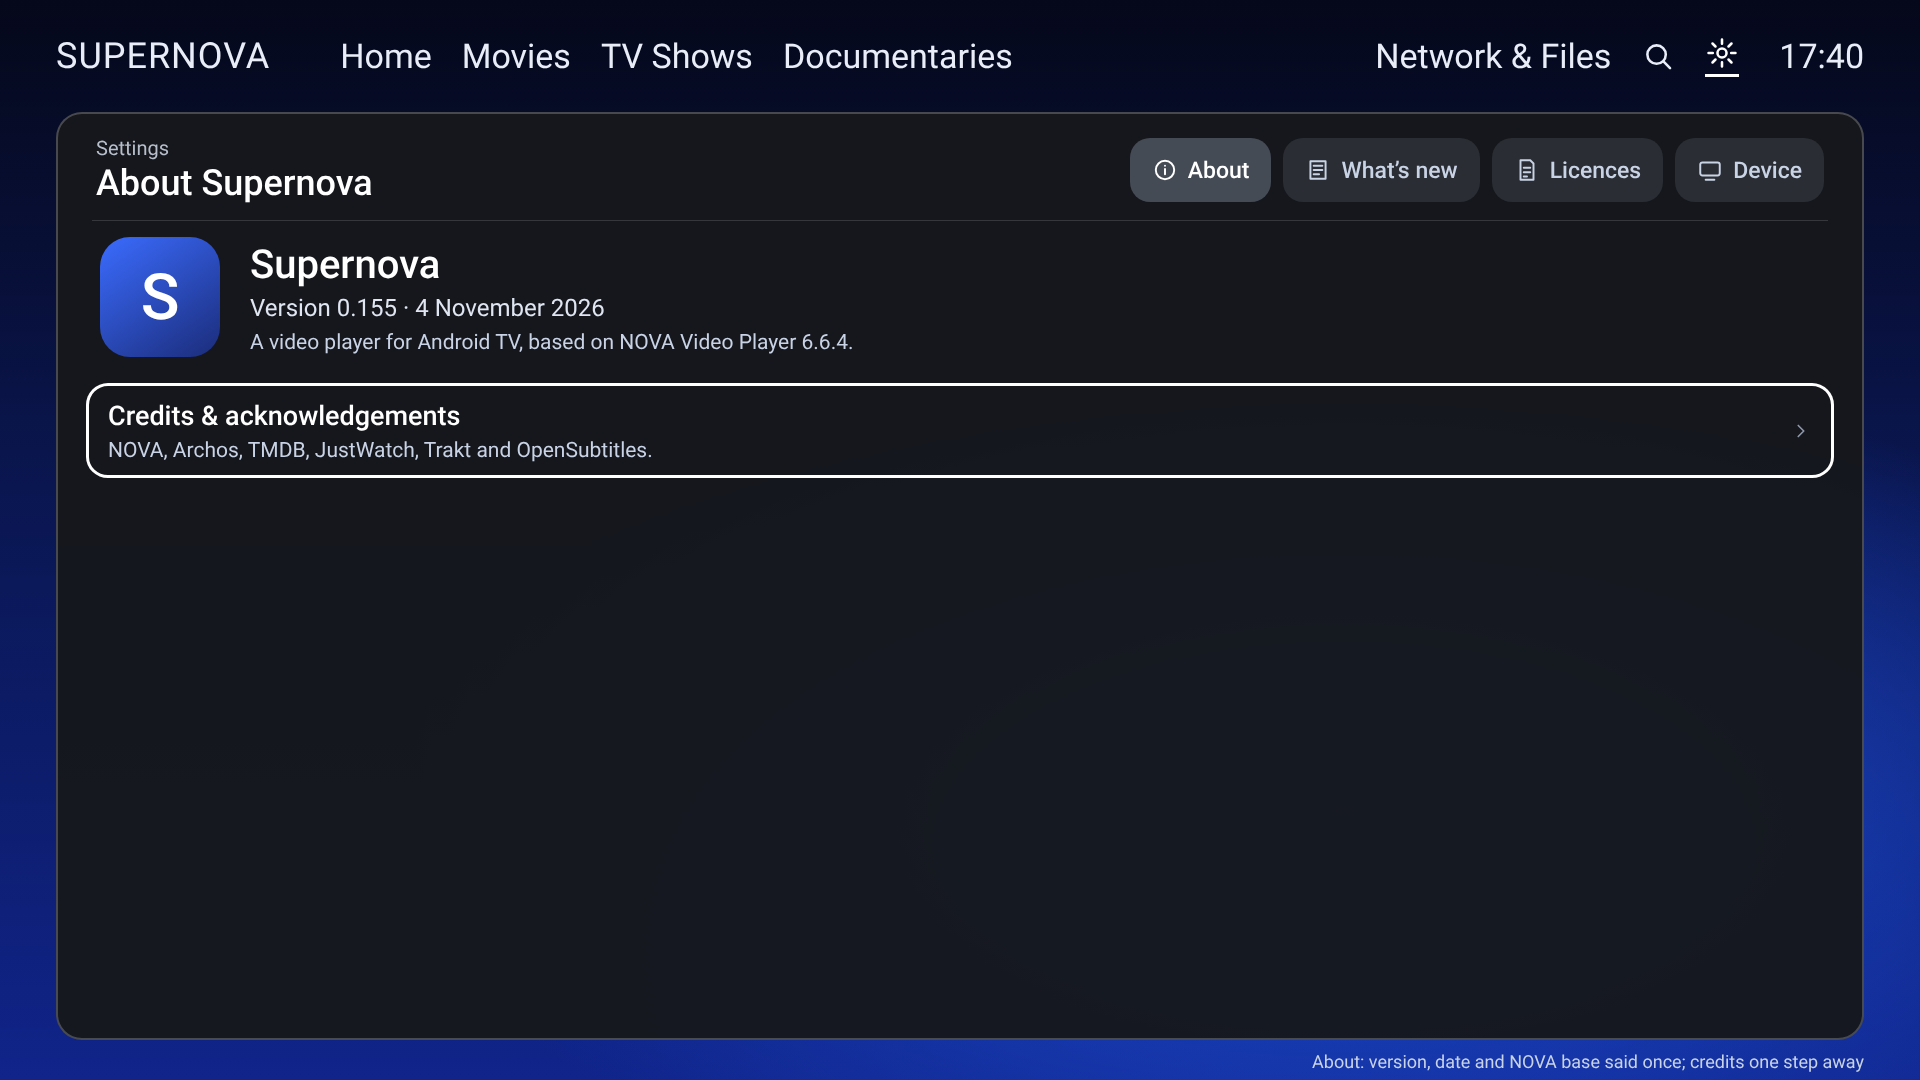
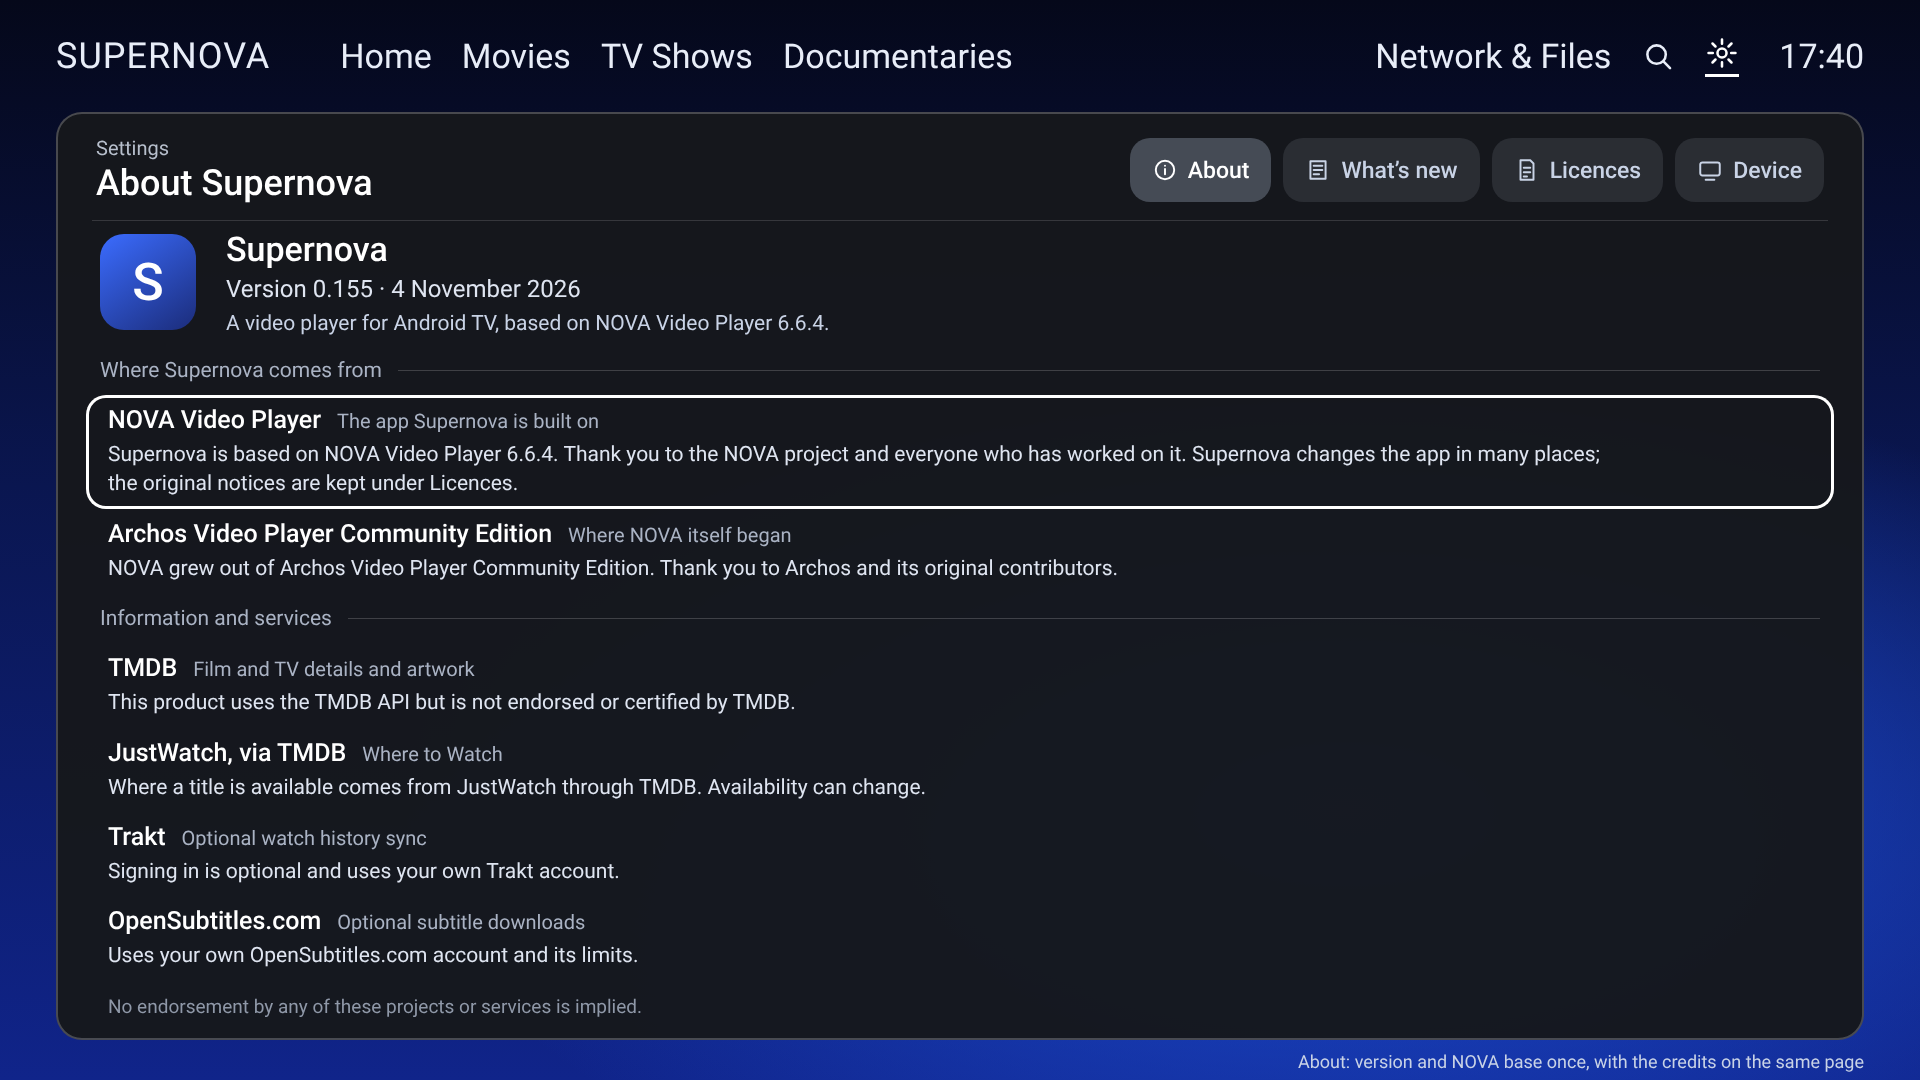
Settings proposal: credits on the About page; QR code for licence websites
Claude-Session: https://claude.ai/code/session_01FtDZqamY6pdaUKwc7fqgiA

diff --git a/docs/design/proposals/settings/about.js b/docs/design/proposals/settings/about.js
@@ -30,9 +30,6 @@ Object.assign(P, { info: '<circle cx="12" cy="12" r="8.5"/><path d="M12 11v5M12 
 const tabs = (open) => `<div class="tabs">${[['info', 'About'], ['news', 'What’s new'], ['lic', 'Licences'], ['dev', 'Device']].map(([k, t], i) => `<div class="tb${i === open ? ' open' : ''}">${ic(k, 26)}<span>${t}</span></div>`).join('')}</div>`;
 const shell = (open, body, foot) => `<div class="one"><div class="ohead"><div><div class="crumb">Settings</div><div class="stitle">About Supernova</div></div>${tabs(open)}</div><div class="rule"></div><div class="inner">${body}<div class="more">${foot}</div></div></div>`;
 const info = (t, v) => `<div class="kv"><span>${t}</span><b>${v}</b></div>`;
-const about = shell(0,
-  `<div class="hero"><div class="logo">S</div><div><div class="an">Supernova</div><div class="av">Version 0.155 · 4 November 2026</div><div class="ab">A video player for Android TV, based on NOVA Video Player 6.6.4.</div></div></div>` +
-  row('Credits & acknowledgements', 'NOVA, Archos, TMDB, JustWatch, Trakt and OpenSubtitles.', val(''), true), '');
 const esc = t => t.replace(/&/g, '&amp;');
 const histTop = [['November 2026', [['0.155', '4 Nov'], ['0.154', '3 Nov'], ['0.153', '3 Nov'], ['0.152', '2 Nov'], ['0.151', '2 Nov'], ['0.150', '2 Nov'], ['0.149', '1 Nov']]],
   ['October 2026', [['0.148', '31 Oct'], ['0.147', '29 Oct'], ['0.146', '29 Oct']]]];
@@ -55,9 +52,15 @@ const credits = [['Where Supernova comes from', [['NOVA Video Player', 'The app 
   ['JustWatch, via TMDB', 'Where to Watch', 'Where a title is available comes from JustWatch through TMDB. Availability can change.'],
   ['Trakt', 'Optional watch history sync', 'Signing in is optional and uses your own Trakt account.'],
   ['OpenSubtitles.com', 'Optional subtitle downloads', 'Uses your own OpenSubtitles.com account and its limits.']]]];
+const about = shell(0,
+  `<div class="hero sm"><div class="logo">S</div><div><div class="an">Supernova</div><div class="av">Version 0.155 · 4 November 2026</div><div class="ab">A video player for Android TV, based on NOVA Video Player 6.6.4.</div></div></div>` +
+  credits.map(([g, items]) => `<div class="csec2"><span>${g}</span><i></i></div>` +
+    items.map(([n, r, t], i) => `<div class="cr sm${g.startsWith('Where') && i === 0 ? ' f' : ''}"><div class="crn"><b>${n}</b><span>${r}</span></div><div class="crt">${t}</div></div>`).join('')).join('') +
+  `<div class="disc">No endorsement by any of these projects or services is implied.</div>`, '');
 const creditsPage = shell(0, `<div class="crumb2">About › Credits &amp; acknowledgements</div>` + credits.map(([g, items]) => `<div class="csec2"><span>${g}</span><i></i></div>` +
   items.map(([n, r, t], i) => `<div class="cr${g.startsWith('Where') && i === 0 ? ' f' : ''}"><div class="crn"><b>${n}</b><span>${r}</span></div><div class="crt">${t}</div></div>`).join('')).join('') +
   `<div class="disc">No endorsement by any of these projects or services is implied.</div>`, '');
+const QR = 'M0 0.5h7m1 0h1m1 0h1m1 0h1m1 0h1m3 0h1m3 0h7m-29 1h1m5 0h1m1 0h1m3 0h1m1 0h2m6 0h1m5 0h1m-29 1h1m1 0h3m1 0h1m5 0h4m4 0h1m1 0h1m1 0h3m1 0h1m-29 1h1m1 0h3m1 0h1m2 0h3m1 0h2m1 0h2m2 0h1m1 0h1m1 0h3m1 0h1m-29 1h1m1 0h3m1 0h1m2 0h1m1 0h1m5 0h1m1 0h2m1 0h1m1 0h3m1 0h1m-29 1h1m5 0h1m3 0h3m1 0h3m5 0h1m5 0h1m-29 1h7m1 0h1m1 0h1m1 0h1m1 0h1m1 0h1m1 0h1m1 0h1m1 0h7m-18 1h4m1 0h1m2 0h2m-20 1h1m4 0h3m1 0h2m2 0h1m2 0h1m2 0h2m5 0h2m-29 1h1m1 0h3m5 0h1m1 0h4m2 0h2m3 0h5m-24 1h5m1 0h2m2 0h1m3 0h1m2 0h3m1 0h2m-25 1h4m2 0h1m1 0h1m7 0h1m3 0h3m-25 1h1m1 0h1m1 0h1m1 0h3m5 0h3m3 0h3m2 0h1m1 0h1m-27 1h3m1 0h1m1 0h1m1 0h1m2 0h1m2 0h1m1 0h4m1 0h1m1 0h2m2 0h1m-29 1h1m3 0h1m1 0h1m1 0h2m1 0h1m1 0h1m1 0h1m5 0h1m1 0h1m-24 1h4m1 0h1m1 0h2m1 0h1m1 0h1m1 0h3m1 0h2m1 0h2m1 0h3m-27 1h1m1 0h5m1 0h1m7 0h1m1 0h1m6 0h3m-28 1h1m2 0h1m1 0h1m1 0h2m1 0h2m1 0h2m3 0h3m1 0h5m1 0h1m-29 1h3m1 0h4m3 0h5m1 0h1m1 0h2m3 0h1m3 0h1m-29 1h1m2 0h1m1 0h1m2 0h1m4 0h2m4 0h7m1 0h1m-28 1h1m4 0h3m2 0h2m2 0h2m1 0h1m1 0h6m1 0h1m1 0h1m-21 1h2m3 0h1m1 0h1m2 0h1m1 0h1m3 0h4m-28 1h7m1 0h2m1 0h5m2 0h3m1 0h1m1 0h1m-25 1h1m5 0h1m5 0h1m1 0h3m1 0h3m3 0h2m1 0h2m-29 1h1m1 0h3m1 0h1m4 0h3m2 0h9m-25 1h1m1 0h3m1 0h1m3 0h1m1 0h2m2 0h1m1 0h3m2 0h1m1 0h3m-28 1h1m1 0h3m1 0h1m2 0h1m1 0h1m1 0h2m2 0h1m1 0h6m2 0h1m-28 1h1m5 0h1m1 0h4m2 0h2m5 0h1m2 0h3m1 0h1m-29 1h7m2 0h4m4 0h2m2 0h1m2 0h1m1 0h1';
 const notice = `FFmpeg n9.0.2
 
 # License
@@ -71,8 +74,7 @@ Some optional parts of FFmpeg are licensed under the GNU General Public License
 version 2 or later (GPL v2+). See the file COPYING.GPLv2 for details. None of
 these parts are used by default, you have to explicitly pass --enable-gpl to
 configure to activate them. In this case, FFmpeg's license changes to GPL v2+.`;
-const licPage = shell(2, `<div class="crumb2">Licences › Playback engine</div><div class="lh"><div><div class="lhn">FFmpeg</div><div class="lhs">Reads and decodes almost every video and audio format</div></div></div>` +
-  `<div class="lfacts"><span><i>Version</i>9.0.2, with security fixes</span><span><i>Licence</i>LGPL 2.1 or later</span><span><i>Website</i>ffmpeg.org/legal.html</span></div>` +
+const licPage = shell(2, `<div class="crumb2">Licences › Playback engine</div><div class="lh"><div class="qr"><svg width="150" height="150" viewBox="0 0 29 29" shape-rendering="crispEdges"><path stroke="#000" d="${QR}"/></svg><span>Scan for the website</span></div><div><div class="lhn">FFmpeg</div><div class="lhs">Reads and decodes almost every video and audio format</div><div class="lfacts"><span><i>Version</i>9.0.2, with security fixes</span><span><i>Licence</i>LGPL 2.1 or later</span></div></div></div>` +
   `<div class="csec2"><span>Licence text</span><i></i></div><div class="ltext f"><pre>${notice}</pre><div class="hfade"></div></div>`, '');
 const libs = [['App libraries', [['AndroidX', 'Apache 2.0'], ['OkHttp', 'Apache 2.0'], ['Retrofit', 'Apache 2.0'], ['jcifs-ng (Windows shares)', 'LGPL 2.1'], ['sshj (SFTP)', 'Apache 2.0'], ['sardine-android (WebDAV)', 'Apache 2.0']]],
   ['Playback engine', [['FFmpeg', 'LGPL 2.1'], ['libass (styled subtitles)', 'ISC'], ['dav1d (AV1)', 'BSD 2-Clause'], ['HarfBuzz', 'MIT']]]];
@@ -82,11 +84,10 @@ const dev = shell(3,
   `<div class="csec2"><span>Playback</span><i></i></div>` + info('Hardware video', 'H.264 · HEVC · VP9 · Dolby Vision · VP8 · MPEG-2 · VC-1') +
   `<div class="csec2"><span>Library</span><i></i></div>` + info('In your library', '85 films · 324 shows · 1,726 episodes') + info('Sources', '2 · USB drive and Put.io'), '');
 const shots = [
-  ['26-about.png', about, 'About: version, date and NOVA base said once; credits one step away'],
+  ['26-about.png', about, 'About: version and NOVA base once, with the credits on the same page'],
   ['27-whats-new.png', news, 'What’s new: every version since 0.1, newest first; the selected one is described on the right'],
   ['30-whats-new-start.png', newsEnd, 'The start of the list: test builds with no visible change are shown as one quiet line'],
-  ['31-credits.png', creditsPage, 'Credits & acknowledgements: opened from About; Back returns'],
-  ['32-licence.png', licPage, 'One licence opened: what it is, version, licence, website, then the full notice to scroll'],
+  ['32-licence.png', licPage, 'One licence opened: what it is, version and licence, a QR code for its website, then the full notice'],
   ['28-licences.png', lic, 'Licences: search, grouped into app libraries and playback engine'],
   ['29-device.png', dev, 'Device: device, decoders and library in plain words'],
 ];
@@ -146,9 +147,9 @@ body{width:1920px;height:1080px;overflow:hidden;font-family:R;color:#fff;positio
 .crumb2{font-size:20px;color:#aab3c4;margin:6px 14px 4px}
 .cr{border-radius:20px;padding:14px 22px;margin-bottom:4px}.cr.f{box-shadow:inset 0 0 0 3px #fff}.crn{display:flex;align-items:baseline;gap:16px}.crn b{font-size:25px;font-weight:500}.crn span{font-size:20px;color:#aab3c4}.crt{font-size:21px;color:#dfe5f1;margin-top:6px;line-height:1.4;max-width:1500px}
 .disc{font-size:19px;color:#8f98a8;margin:14px 22px}
-.lh{margin:10px 14px 16px}.lhn{font-size:38px;font-weight:500}.lhs{font-size:22px;color:#c9d3e6;margin-top:4px}
-.lfacts{display:flex;gap:48px;margin:0 14px 10px;font-size:22px}.lfacts i{font-style:normal;color:#aab3c4;margin-right:12px}
-.ltext{position:relative;border-radius:20px;background:#121418;margin:8px 0 0;height:560px;overflow:hidden;padding:20px 26px}.ltext.f{box-shadow:inset 0 0 0 3px #fff}.ltext pre{font-family:R;font-size:20px;line-height:1.5;color:#dfe5f1;white-space:pre-wrap;margin:0}.ltext .hfade{background:linear-gradient(0deg,#121418 15%,rgba(18,20,24,0))}
+.lh{margin:10px 14px 16px;position:relative;min-height:170px}.qr{position:absolute;right:0;top:-6px;display:flex;flex-direction:column;align-items:center;gap:8px}.qr svg{background:#fff;padding:12px;border-radius:14px;box-sizing:content-box}.qr span{font-size:18px;color:#aab3c4}.hero.sm{margin:6px 14px 10px}.hero.sm .logo{width:96px;height:96px;font-size:52px;border-radius:24px}.hero.sm .an{font-size:34px}.cr.sm{padding:10px 22px;margin-bottom:0}.lhn{font-size:38px;font-weight:500}.lhs{font-size:22px;color:#c9d3e6;margin-top:4px}
+.lfacts{display:flex;gap:48px;margin:22px 0 0;font-size:22px}.lfacts i{font-style:normal;color:#aab3c4;margin-right:12px}
+.ltext{position:relative;border-radius:20px;background:#121418;margin:8px 0 0;height:470px;overflow:hidden;padding:20px 26px}.ltext.f{box-shadow:inset 0 0 0 3px #fff}.ltext pre{font-family:R;font-size:20px;line-height:1.5;color:#dfe5f1;white-space:pre-wrap;margin:0}.ltext .hfade{background:linear-gradient(0deg,#121418 15%,rgba(18,20,24,0))}
 .label{z-index:20;position:absolute;right:56px;bottom:8px;font-size:18px;color:#c9d3e6}`;
 (async () => { const b = await chromium.launch(); const t = await b.newPage({ viewport: { width: 1920, height: 1080 } });
   for (const [f, body, label] of shots) {

diff --git a/docs/0.155/OWNER_NOTES.md b/docs/0.155/OWNER_NOTES.md
@@ -490,7 +490,8 @@ Codex's branch `codex/0155-code-2026-11-04` (DP-01…DP-07, TV-only stages). **N
   month: list on the left, the focused version's changes on the right. 155 versions; 51 with visible changes, the rest
   shown as one quiet "test build · no visible changes" line (runs merged, e.g. 0.46–0.132 = 87 builds). Every note in
   `release-history.json` is rewritten for viewers when coded.
-- **Credits** (`31`): opens from About as a page in the same panel; Back returns. Plain-word text from `credits.json`
-  (NOVA corrected to 6.6.4), TMDB's required wording kept exactly.
-- **One licence opened** (`32`): name, what it does, version, licence, website, then the full notice in a scrolling box.
+- **Credits** (owner): shown on the About page itself (`26`), under the version — no separate page. Plain-word text
+  from `credits.json` (NOVA corrected to 6.6.4), TMDB's required wording kept exactly.
+- **One licence opened** (`32`): name, what it does, version, licence, a **QR code** for its website (owner; replaces
+  the written address, "Scan for the website"), then the full notice in a scrolling box.
 - **Status:** awaiting the owner's review.
